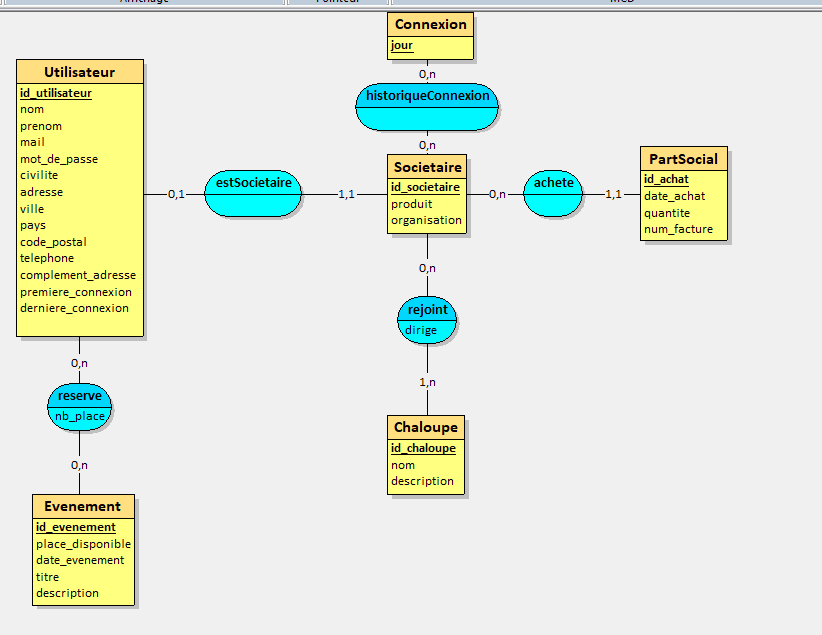
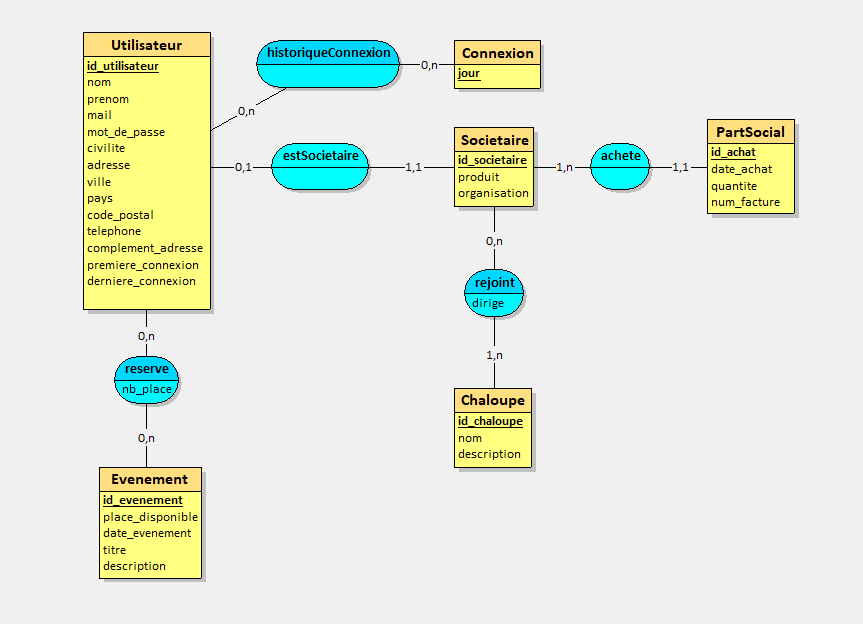
modification shema bdd

diff --git a/api/migrations/0001_initial.py b/api/migrations/0001_initial.py
@@ -1,6 +1,7 @@
-# Generated by Django 5.1.6 on 2025-02-14 09:58
+# Generated by Django 5.1.6 on 2025-02-25 12:22
 
 import django.db.models.deletion
+from django.conf import settings
 from django.db import migrations, models
 
 
@@ -13,11 +14,35 @@ class Migration(migrations.Migration):
 
     operations = [
         migrations.CreateModel(
+            name='Utilisateur',
+            fields=[
+                ('password', models.CharField(max_length=128, verbose_name='password')),
+                ('last_login', models.DateTimeField(blank=True, null=True, verbose_name='last login')),
+                ('id_utilisateur', models.AutoField(primary_key=True, serialize=False)),
+                ('nom', models.CharField(max_length=50)),
+                ('prenom', models.CharField(max_length=50)),
+                ('civilite', models.CharField(max_length=50)),
+                ('adresse', models.CharField(max_length=200)),
+                ('ville', models.CharField(max_length=50)),
+                ('pays', models.CharField(max_length=50)),
+                ('code_postal', models.CharField(blank=True, max_length=6, null=True)),
+                ('telephone', models.CharField(max_length=15)),
+                ('complement_adresse', models.CharField(blank=True, max_length=100, null=True)),
+                ('premiere_connexion', models.DateTimeField(blank=True, null=True)),
+                ('derniere_connexion', models.DateTimeField(blank=True, null=True)),
+                ('mail', models.EmailField(max_length=100, unique=True)),
+                ('is_active', models.BooleanField(default=True)),
+                ('is_staff', models.BooleanField(default=False)),
+            ],
+            options={
+                'abstract': False,
+            },
+        ),
+        migrations.CreateModel(
             name='Chaloupe',
             fields=[
                 ('id_chaloupe', models.AutoField(primary_key=True, serialize=False)),
                 ('nom', models.CharField(max_length=50)),
-                ('nb_membre', models.IntegerField()),
                 ('description', models.CharField(blank=True, max_length=1000, null=True)),
             ],
         ),
@@ -41,27 +66,8 @@ class Migration(migrations.Migration):
             name='Societaire',
             fields=[
                 ('id_societaire', models.AutoField(primary_key=True, serialize=False)),
-                ('produit', models.CharField(max_length=50)),
                 ('organisation', models.CharField(blank=True, max_length=50, null=True)),
-            ],
-        ),
-        migrations.CreateModel(
-            name='Utilisateur',
-            fields=[
-                ('id_utilisateur', models.AutoField(primary_key=True, serialize=False)),
-                ('nom', models.CharField(max_length=50)),
-                ('prenom', models.CharField(max_length=50)),
-                ('mail', models.EmailField(max_length=100, unique=True)),
-                ('mot_de_passe', models.CharField(max_length=50)),
-                ('civilite', models.CharField(max_length=50)),
-                ('adresse', models.CharField(max_length=200)),
-                ('ville', models.CharField(max_length=50)),
-                ('pays', models.CharField(max_length=50)),
-                ('code_postal', models.CharField(blank=True, max_length=6, null=True)),
-                ('telephone', models.CharField(max_length=15)),
-                ('complement_adresse', models.CharField(blank=True, max_length=100, null=True)),
-                ('premiere_connexion', models.DateTimeField(blank=True, null=True)),
-                ('derniere_connexion', models.DateTimeField(blank=True, null=True)),
+                ('id_utilisateur', models.OneToOneField(on_delete=django.db.models.deletion.CASCADE, to=settings.AUTH_USER_MODEL)),
             ],
         ),
         migrations.CreateModel(
@@ -74,10 +80,28 @@ class Migration(migrations.Migration):
                 ('id_societaire', models.ForeignKey(on_delete=django.db.models.deletion.CASCADE, to='api.societaire')),
             ],
         ),
-        migrations.AddField(
-            model_name='societaire',
-            name='id_utilisateur',
-            field=models.OneToOneField(on_delete=django.db.models.deletion.CASCADE, to='api.utilisateur'),
+        migrations.CreateModel(
+            name='HistoriqueConnexion',
+            fields=[
+                ('id', models.BigAutoField(auto_created=True, primary_key=True, serialize=False, verbose_name='ID')),
+                ('id_utilisateur', models.ForeignKey(on_delete=django.db.models.deletion.CASCADE, to=settings.AUTH_USER_MODEL)),
+                ('jour', models.ForeignKey(on_delete=django.db.models.deletion.CASCADE, to='api.connexion')),
+            ],
+            options={
+                'unique_together': {('id_utilisateur', 'jour')},
+            },
+        ),
+        migrations.CreateModel(
+            name='Reserve',
+            fields=[
+                ('id', models.BigAutoField(auto_created=True, primary_key=True, serialize=False, verbose_name='ID')),
+                ('nb_place', models.SmallIntegerField()),
+                ('id_evenement', models.ForeignKey(on_delete=django.db.models.deletion.CASCADE, to='api.evenement')),
+                ('id_utilisateur', models.ForeignKey(on_delete=django.db.models.deletion.CASCADE, to=settings.AUTH_USER_MODEL)),
+            ],
+            options={
+                'unique_together': {('id_utilisateur', 'id_evenement')},
+            },
         ),
         migrations.CreateModel(
             name='Rejoint',
@@ -89,29 +113,6 @@ class Migration(migrations.Migration):
             ],
             options={
                 'unique_together': {('id_societaire', 'id_chaloupe')},
-            },
-        ),
-        migrations.CreateModel(
-            name='HistoriqueConnexion',
-            fields=[
-                ('id', models.BigAutoField(auto_created=True, primary_key=True, serialize=False, verbose_name='ID')),
-                ('jour', models.ForeignKey(on_delete=django.db.models.deletion.CASCADE, to='api.connexion')),
-                ('id_societaire', models.ForeignKey(on_delete=django.db.models.deletion.CASCADE, to='api.societaire')),
-            ],
-            options={
-                'unique_together': {('id_societaire', 'jour')},
-            },
-        ),
-        migrations.CreateModel(
-            name='Reserve',
-            fields=[
-                ('id', models.BigAutoField(auto_created=True, primary_key=True, serialize=False, verbose_name='ID')),
-                ('nb_place', models.SmallIntegerField()),
-                ('id_evenement', models.ForeignKey(on_delete=django.db.models.deletion.CASCADE, to='api.evenement')),
-                ('id_utilisateur', models.ForeignKey(on_delete=django.db.models.deletion.CASCADE, to='api.utilisateur')),
-            ],
-            options={
-                'unique_together': {('id_utilisateur', 'id_evenement')},
             },
         ),
     ]
